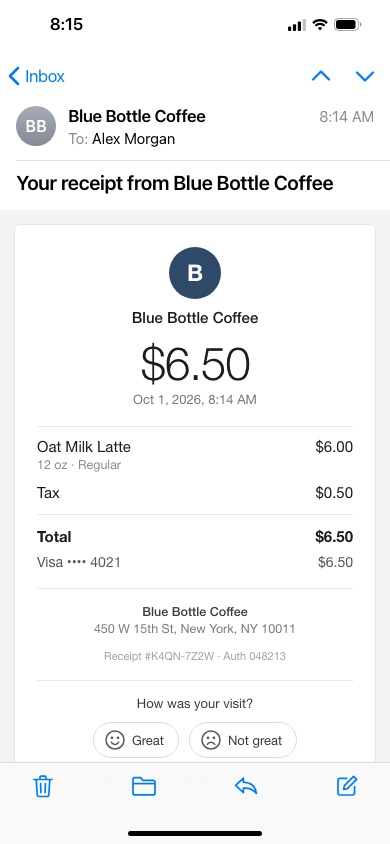
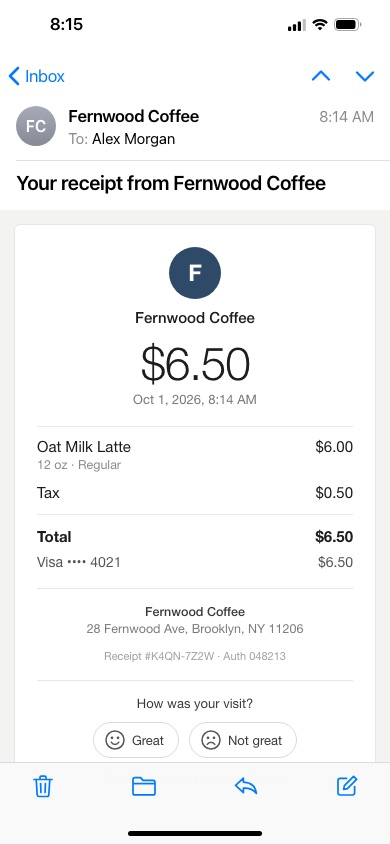
fix(prototypes): an illustrative café on the receipt screenshot
The homepage's receipt screenshot named a real business, Blue Bottle Coffee, at its real street
address. NOTES.md flagged it to swap before anything shipped. It's now Fernwood Coffee, 28 Fernwood
Ave, Brooklyn, in both images that show it:
- img/shot-receipt.jpg, re-rendered from asset-src/shot-receipt.html with build.sh's settings;
- img/iphone-share.png (the iPhone page's share sheet, whose Photos grid shows the receipt),
  re-rendered from the homepage's CSS iPhone at #still&scene=shots, now at 2x (616 × 1290), with the
  page's width and height attributes to match.

diff --git a/docs/superpowers/prototypes/2026-10-06-stashe-homepage/asset-src/shot-receipt.html b/docs/superpowers/prototypes/2026-10-06-stashe-homepage/asset-src/shot-receipt.html
@@ -70,18 +70,18 @@ svg{display:block}
 </div>
 
 <div class="hdr">
-  <div class="mono">BB</div>
-  <div class="from">Blue Bottle Coffee</div>
+  <div class="mono">FC</div>
+  <div class="from">Fernwood Coffee</div>
   <div class="when">8:14 AM</div>
   <div class="to">To: <span>Alex Morgan</span></div>
 </div>
 <div class="rule" style="top:160px"></div>
-<div class="subj">Your receipt from Blue Bottle Coffee</div>
+<div class="subj">Your receipt from Fernwood Coffee</div>
 
 <div class="mail">
   <div class="card">
-    <div class="mark">B</div>
-    <div class="biz">Blue Bottle Coffee</div>
+    <div class="mark">F</div>
+    <div class="biz">Fernwood Coffee</div>
     <div class="amt">$6.50</div>
     <div class="dt">Oct 1, 2026, 8:14 AM</div>
     <div class="tbl">
@@ -90,7 +90,7 @@ svg{display:block}
       <div class="r tot"><span>Total</span><span>$6.50</span></div>
       <div class="r pay"><span>Visa •••• 4021</span><span>$6.50</span></div>
     </div>
-    <div class="addr"><b>Blue Bottle Coffee</b>450 W 15th St, New York, NY 10011</div>
+    <div class="addr"><b>Fernwood Coffee</b>28 Fernwood Ave, Brooklyn, NY 11206</div>
     <div class="foot">Receipt #K4QN-7Z2W · Auth 048213</div>
     <div class="fb">
       <div>How was your visit?</div>

diff --git a/docs/superpowers/prototypes/2026-10-06-stashe-homepage/iphone.html b/docs/superpowers/prototypes/2026-10-06-stashe-homepage/iphone.html
@@ -33,7 +33,7 @@
       <div class="page-art">
         <figure class="phone-shot">
           <div class="phone-pad" aria-hidden="true"></div>
-          <img src="img/iphone-share.png" width="612" height="1289" alt="An iPhone with four screenshots selected in Photos and the share sheet open, about to save them to Stash">
+          <img src="img/iphone-share.png" width="616" height="1290" alt="An iPhone with four screenshots selected in Photos and the share sheet open, about to save them to Stash">
         </figure>
       </div>
     </div>
